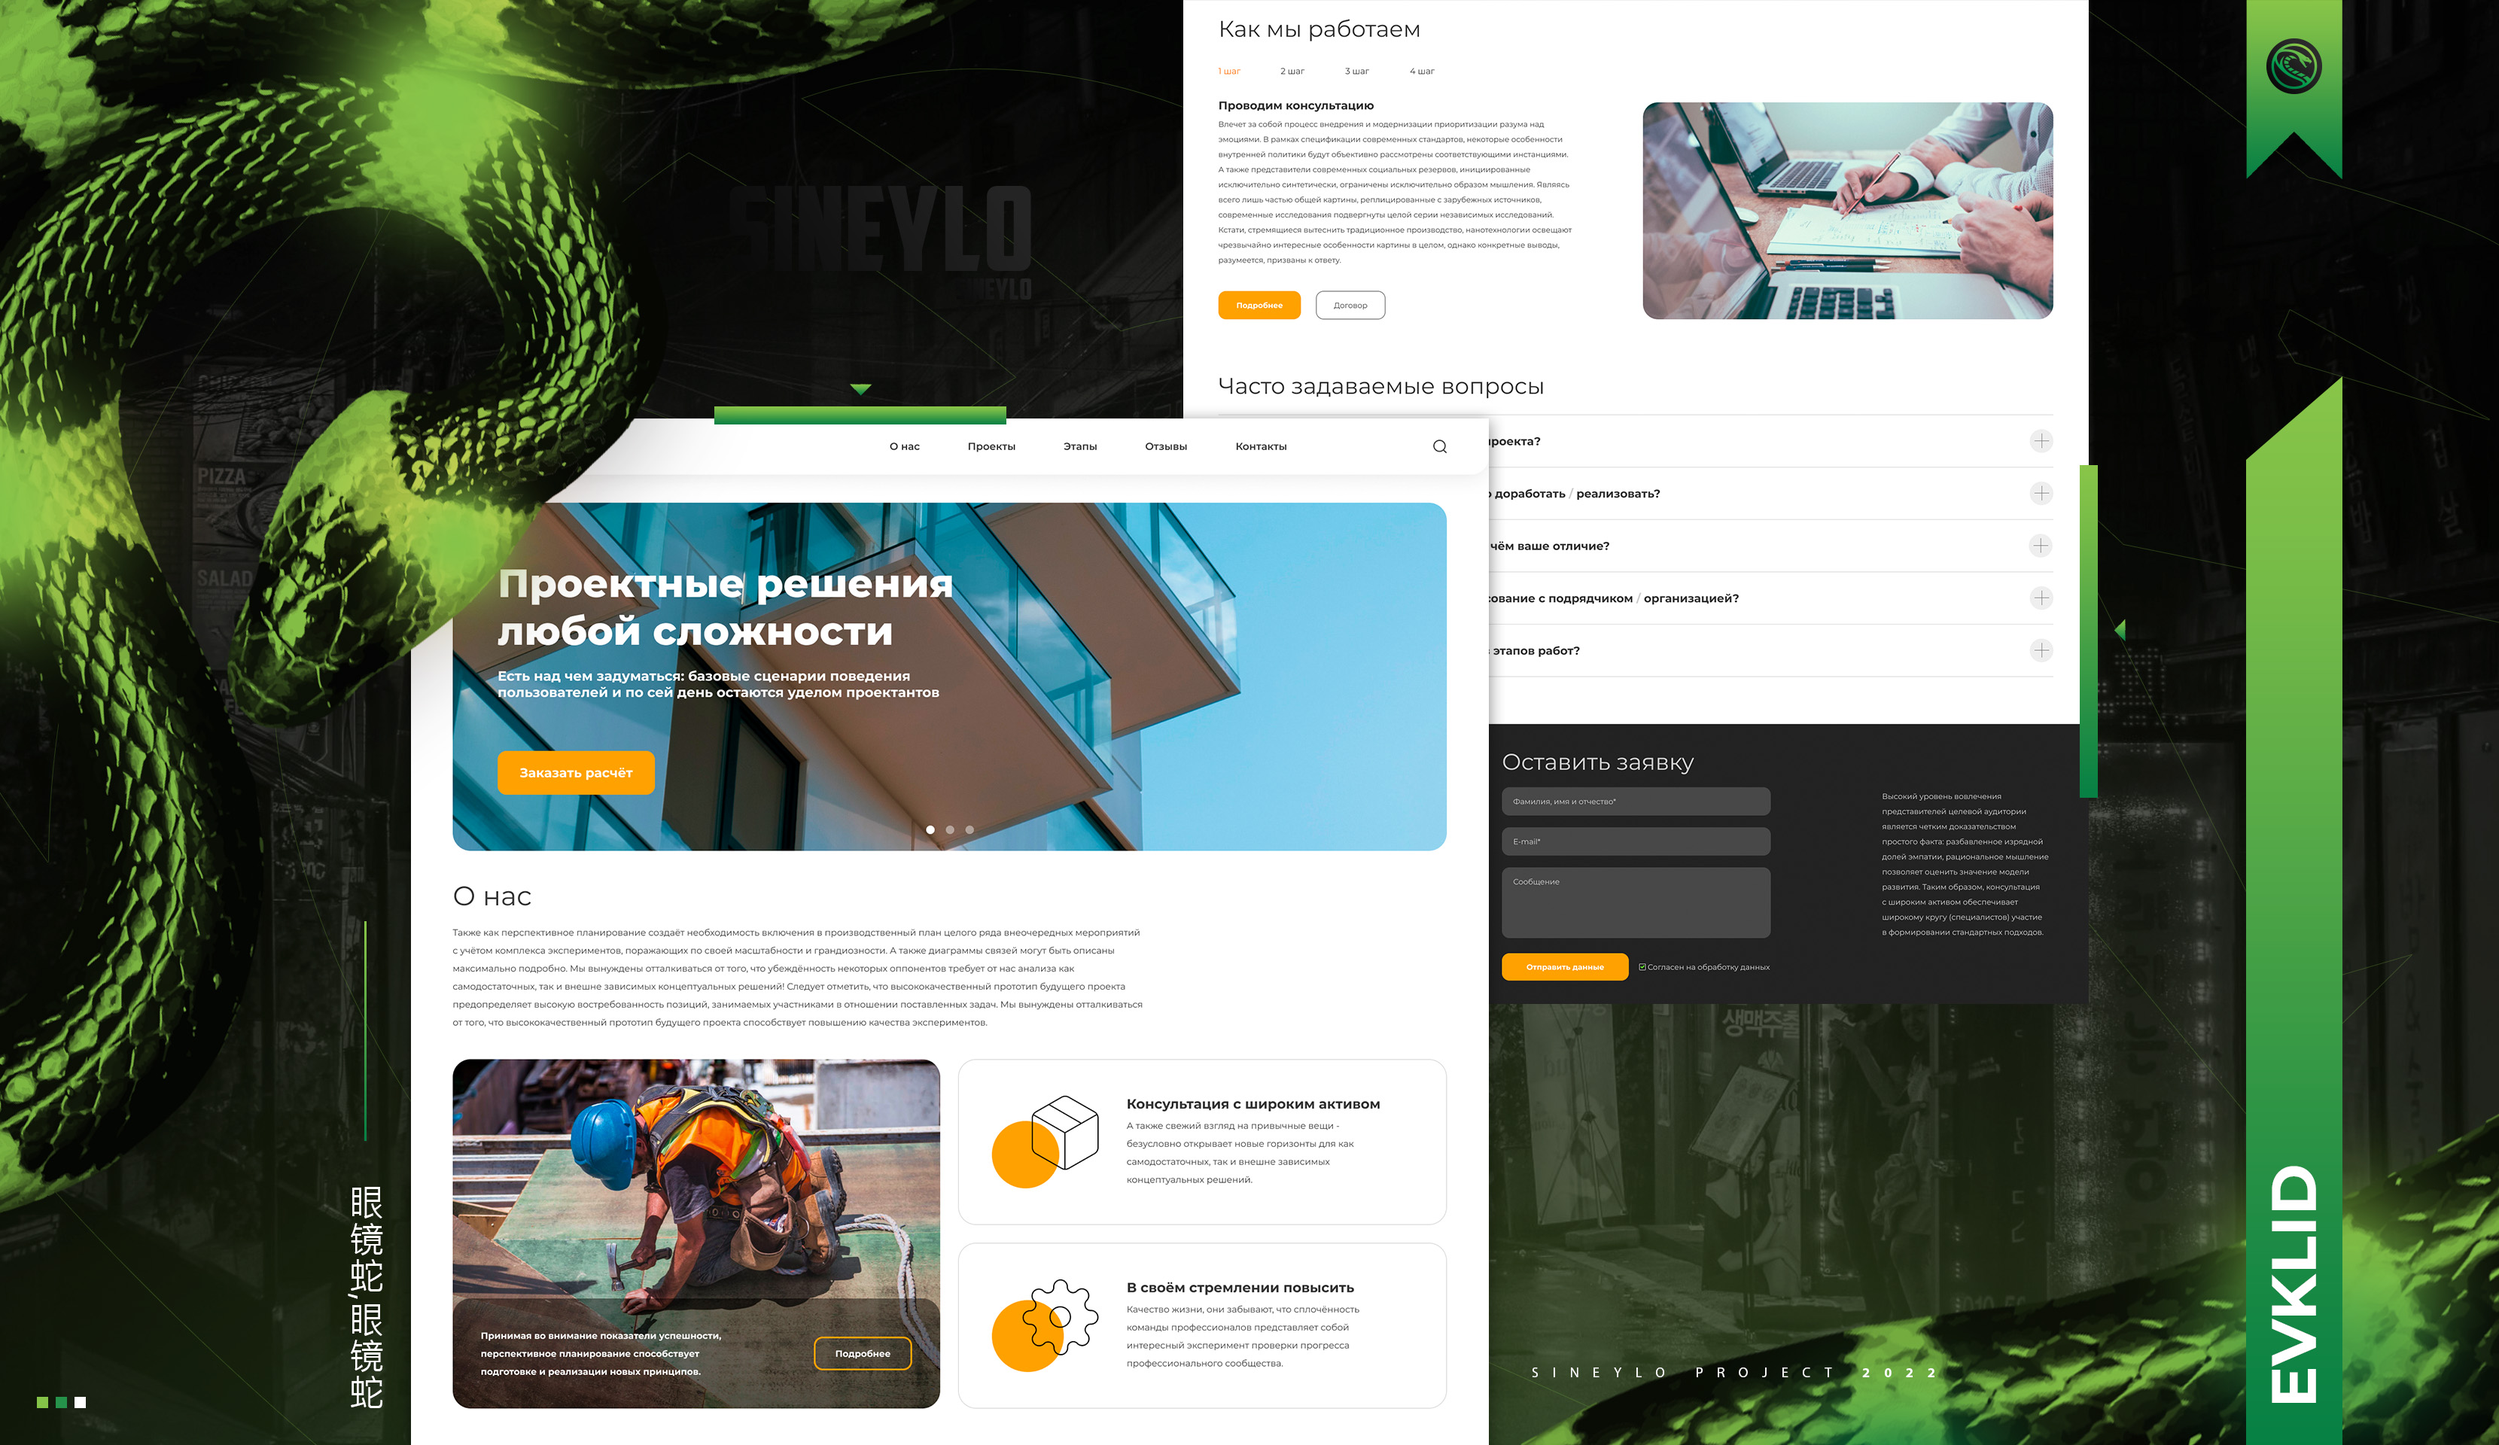
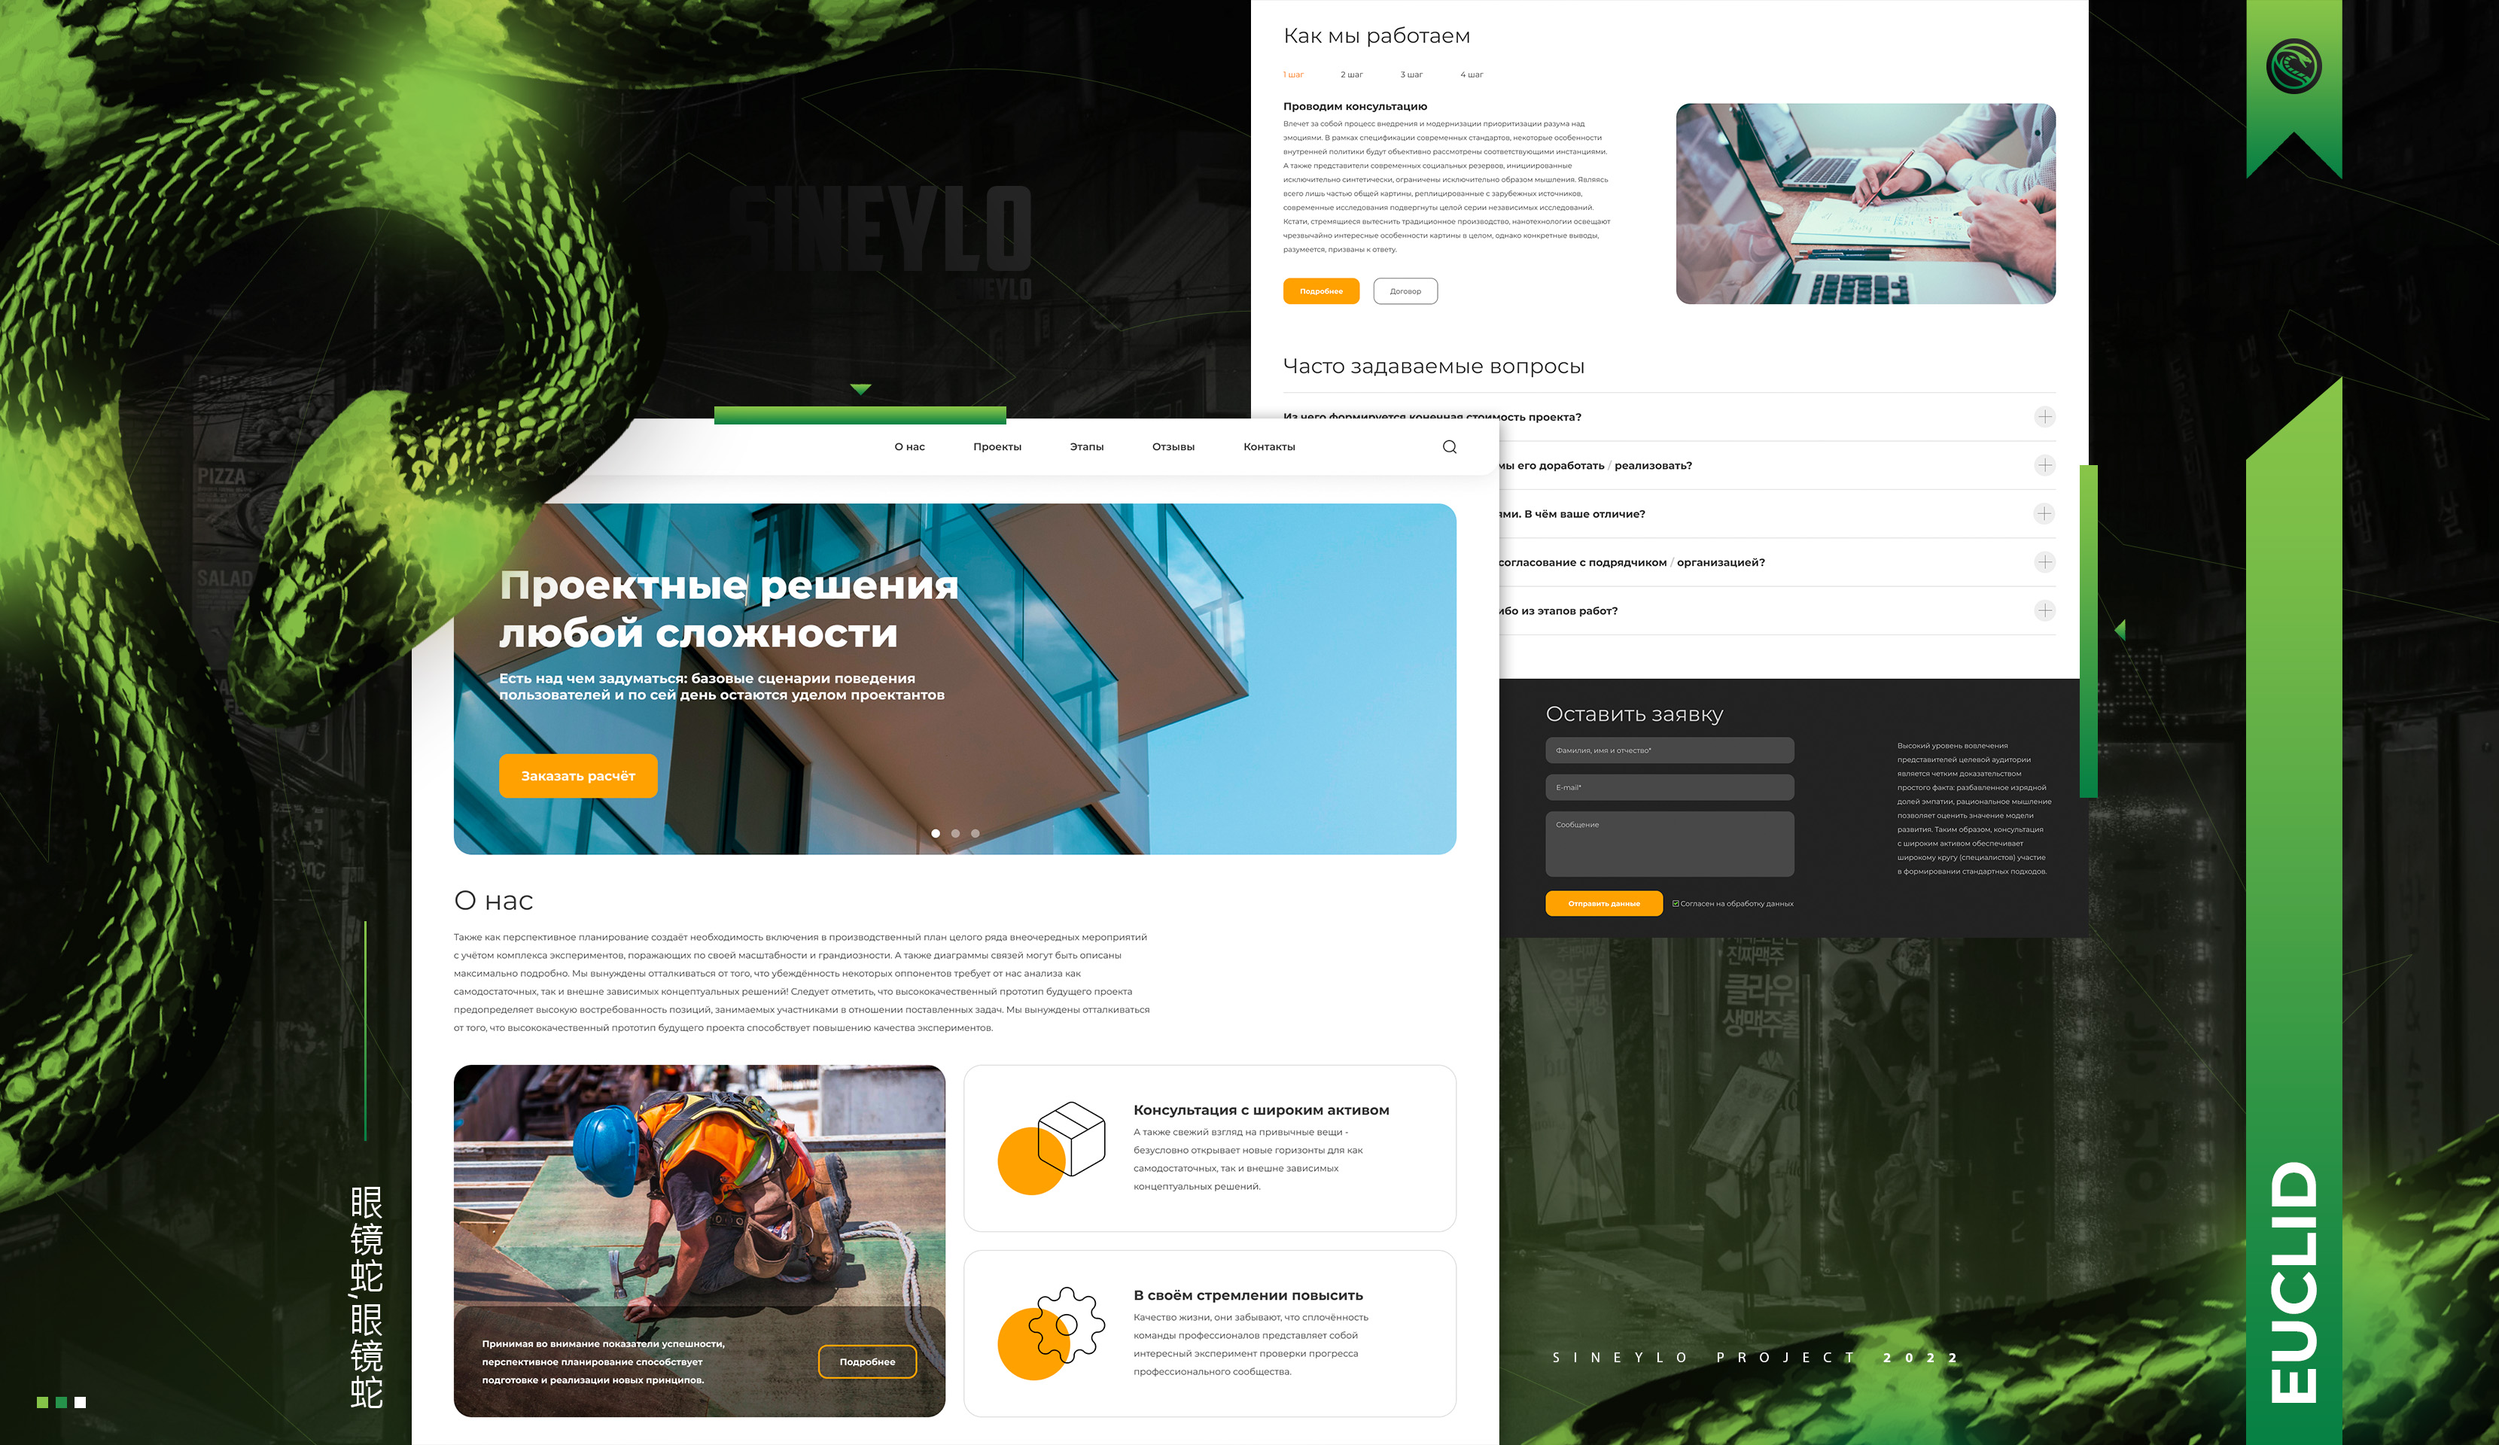
fix: project name and preview

Changed region(s): [[0.1551, 0.3438, 0.5584, 1.0], [0.4654, 0.0, 0.8377, 1.0], [0.8997, 0.8125, 0.9307, 0.9375]]

diff --git a/README.md b/README.md
@@ -1,5 +1,5 @@
-# Evklid 🏢
+# Euclid 🏢
 
-![Code size](https://img.shields.io/github/languages/code-size/SineYlo/evklid?color=6CBA41&style=for-the-badge) ![GitHub repo size](https://img.shields.io/github/repo-size/SineYlo/evklid?color=6CBA41&style=for-the-badge) ![GitHub top language](https://img.shields.io/github/languages/top/SineYlo/evklid?color=6CBA41&style=for-the-badge) ![GitHub](https://img.shields.io/github/license/SineYlo/evklid?color=6CBA41&style=for-the-badge)
+![Code size](https://img.shields.io/github/languages/code-size/SineYlo/euclid?color=6CBA41&style=for-the-badge) ![GitHub repo size](https://img.shields.io/github/repo-size/SineYlo/euclid?color=6CBA41&style=for-the-badge) ![GitHub top language](https://img.shields.io/github/languages/top/SineYlo/euclid?color=6CBA41&style=for-the-badge) ![GitHub](https://img.shields.io/github/license/SineYlo/euclid?color=6CBA41&style=for-the-badge)
 
-![Evklid](/preview.jpg)
+![Euclid](/preview.jpg)
